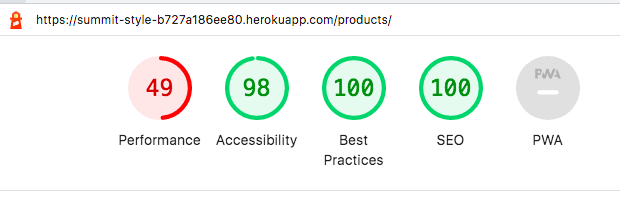
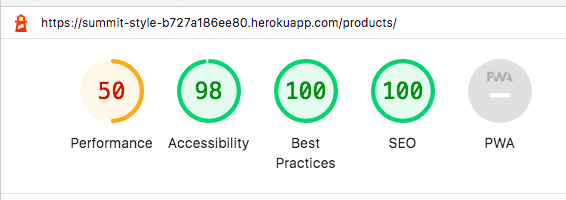
Update result for products lighthouse test

diff --git a/TESTING.md b/TESTING.md
@@ -60,7 +60,7 @@ Performance, accessibility, best practices and seo were tested using [lighthouse
 | page             | performance | accessibility | best practices | seo | screenshot                                                                                                                 | result |
 | ---------------- | ----------- | ------------- | -------------- | --- | -------------------------------------------------------------------------------------------------------------------------- | ------ |
 | home             | 64          | 100           | 100            | 100 | <details><summary>Home Page</summary><img src="./docs/readme_images/testing/home_lighthouse.png"></details>                | PASS   |
-| products         | 49          | 98            | 100            | 100 | <details><summary>Products</summary><img src="./docs/readme_images/testing/products_lighthouse.png"></details>             | FAIL   |
+| products         | 50          | 98            | 100            | 100 | <details><summary>Products</summary><img src="./docs/readme_images/testing/products_lighthouse.png"></details>             | PASS   |
 | product detail   | 76          | 92            | 100            | 100 | <details><summary>Product Detail</summary><img src="./docs/readme_images/testing/productdet_lighthouse.png"></details>     | PASS   |
 | add product      | 96          | 98            | 100            | 100 | <details><summary>Add Product</summary><img src="./docs/readme_images/testing/addproduct_lighthouse.png"></details>        | PASS   |
 | edit product     | 94          | 98            | 100            | 100 | <details><summary>Edit Product</summary><img src="./docs/readme_images/testing/editproduct_lighthouse.png"></details>      | PASS   |
